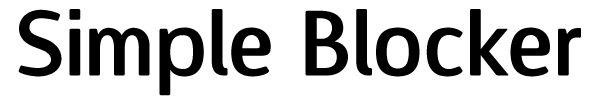
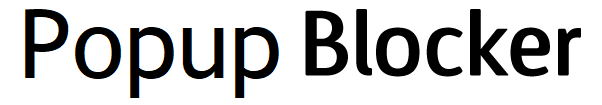
Changed title

Changed region(s): [[0.03, 0.06, 0.99, 0.96]]

diff --git a/src/blocked.html b/src/blocked.html
@@ -1,6 +1,6 @@
 <html>
     <head>
-    	<title>Simple Blocker - Options</title>
+    	<title>URL Popup Blocker - Options</title>
         <link rel="stylesheet" type="text/css" href="styles.css">
     </head>
     <body>

diff --git a/src/jump.html b/src/jump.html
@@ -1,6 +1,6 @@
 <html>
     <head>
-    	<title>Simple Blocker - Options</title>
+    	<title>URL Popup Blocker - Options</title>
         <link rel="stylesheet" type="text/css" href="styles.css">
     </head>
     <body>

diff --git a/src/options.html b/src/options.html
@@ -1,6 +1,6 @@
 <html>
 	<head>
-		<title>Simple Blocker - Options</title>
+		<title>URL Popup Blocker - Options</title>
 		<link rel="stylesheet" type="text/css" href="styles.css">
 	</head>
 	<body>

diff --git a/src/jquery-1.11.1.html b/src/jquery-1.11.1.html
@@ -1,6 +1,6 @@
 <html>
 	<head>
-		<title>Simple Blocker - Options</title>
+		<title>URL Popup Blocker - Options</title>
 		<link rel="stylesheet" type="text/css" href="styles.css">
 	</head>
 
